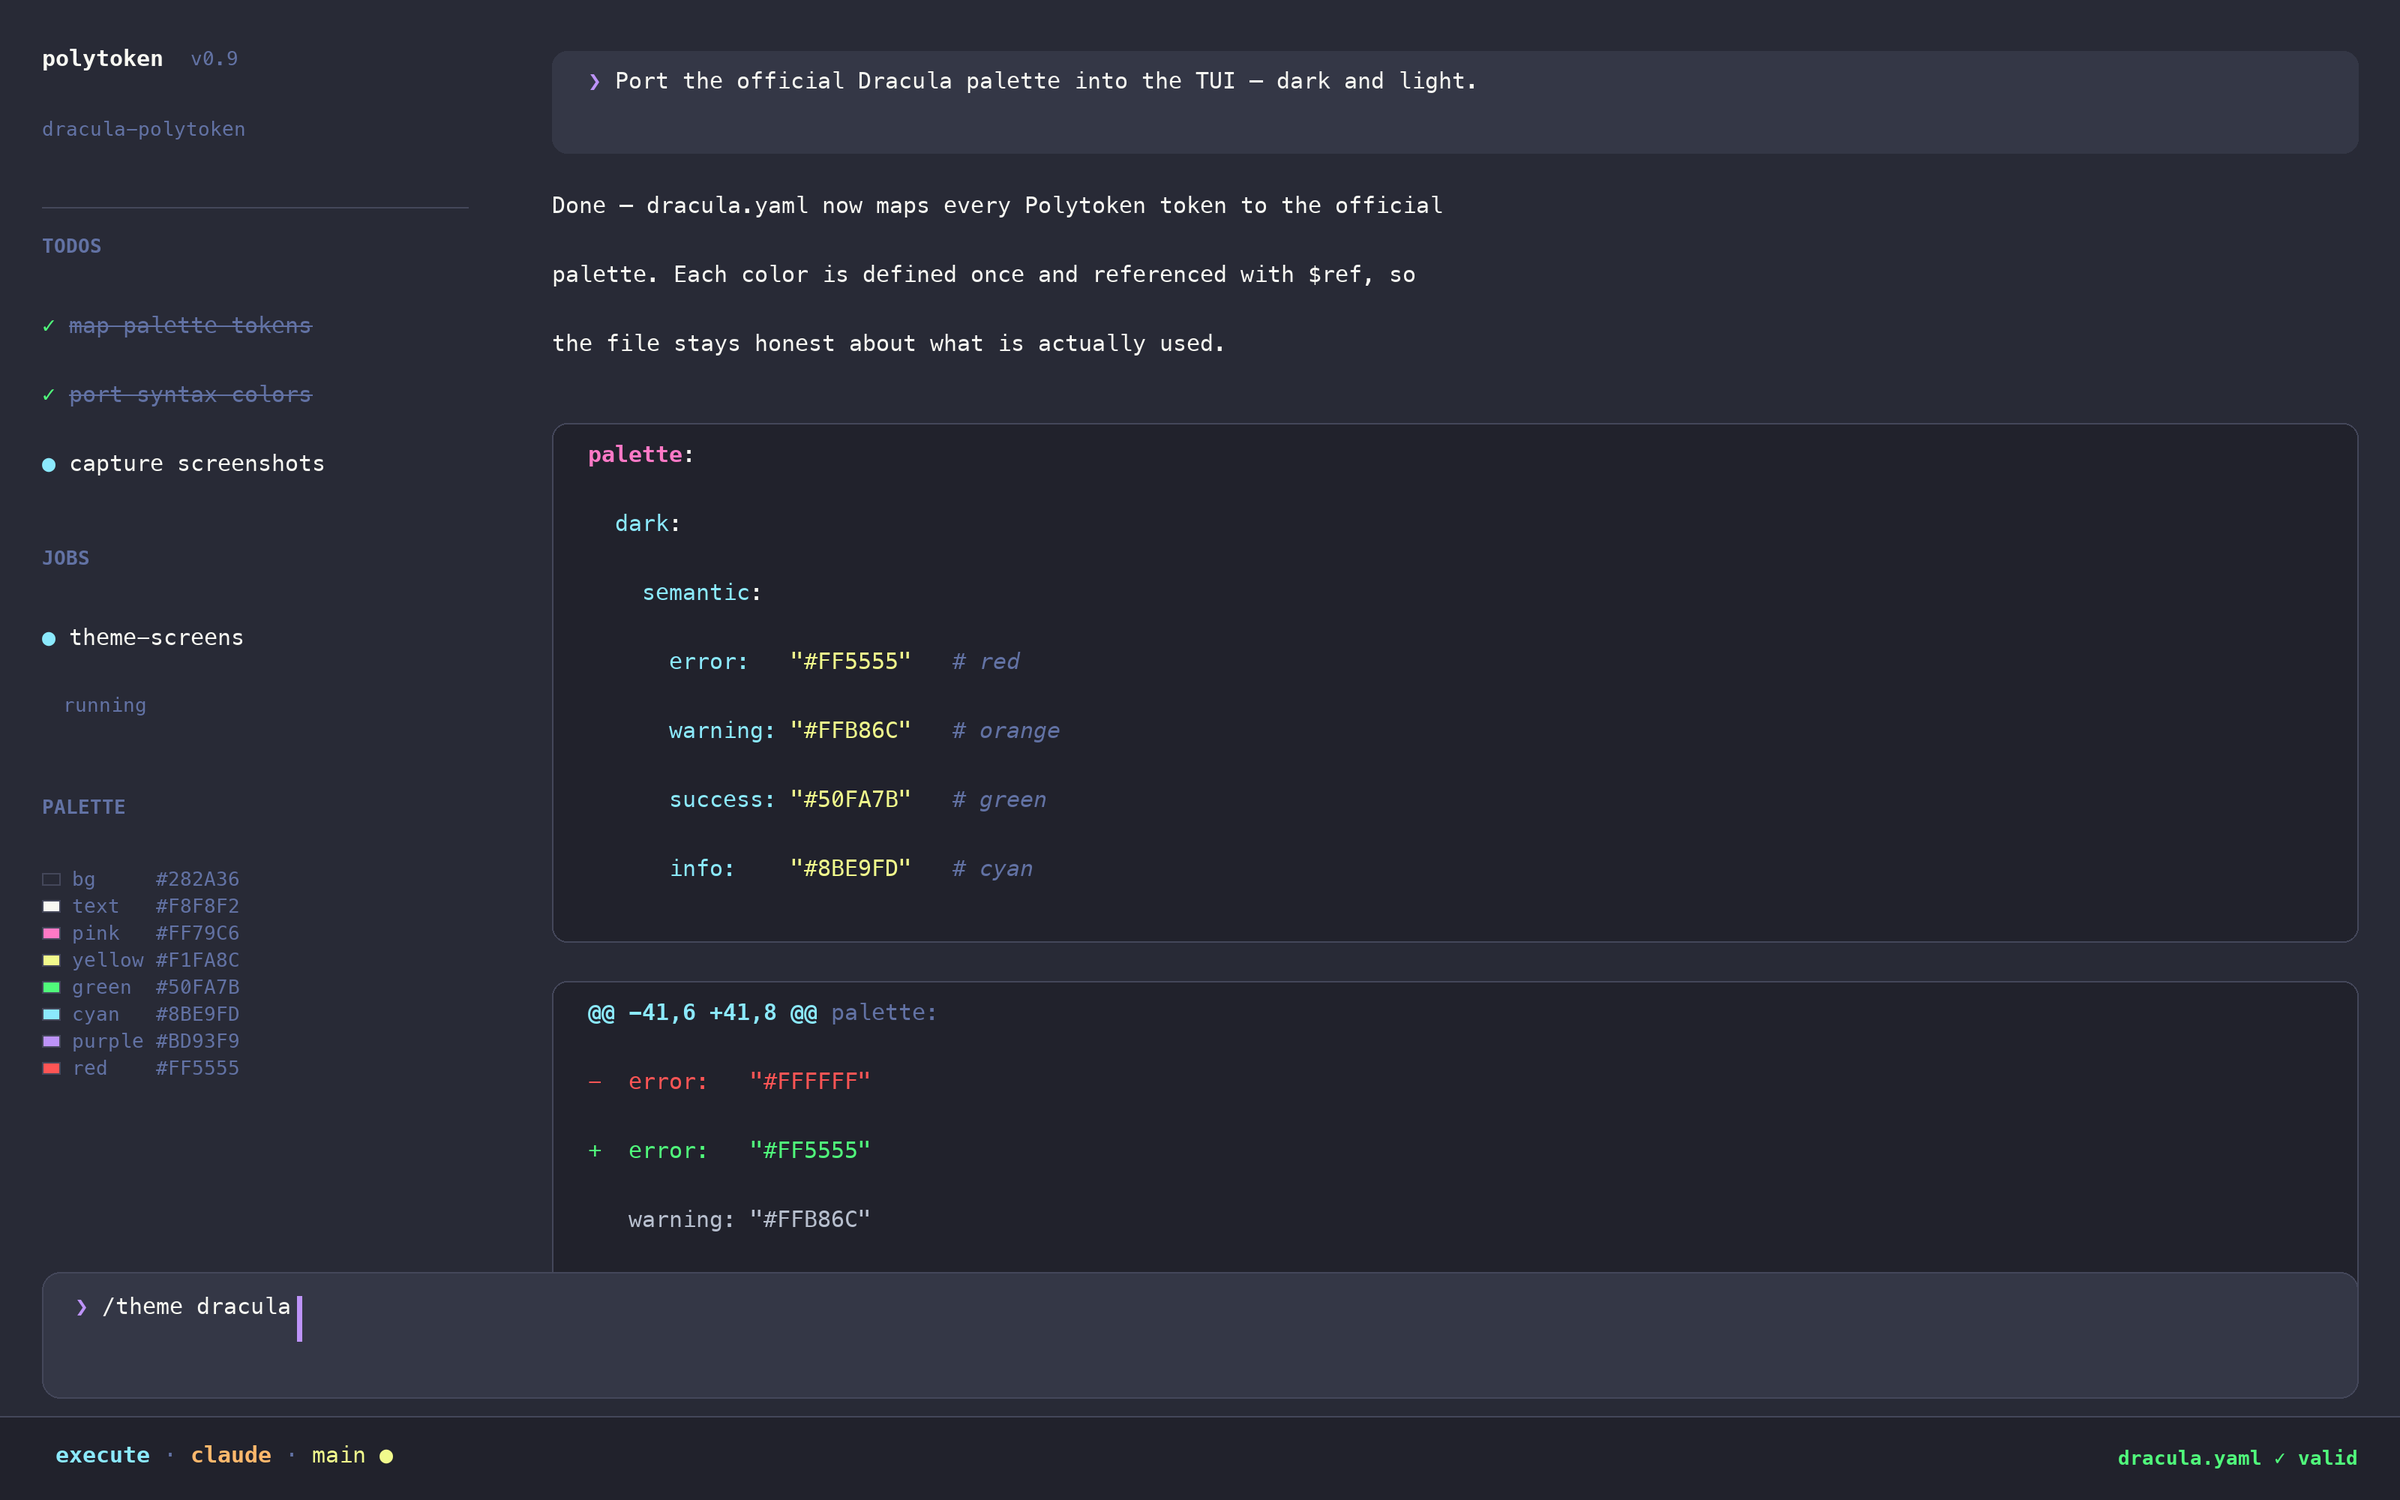
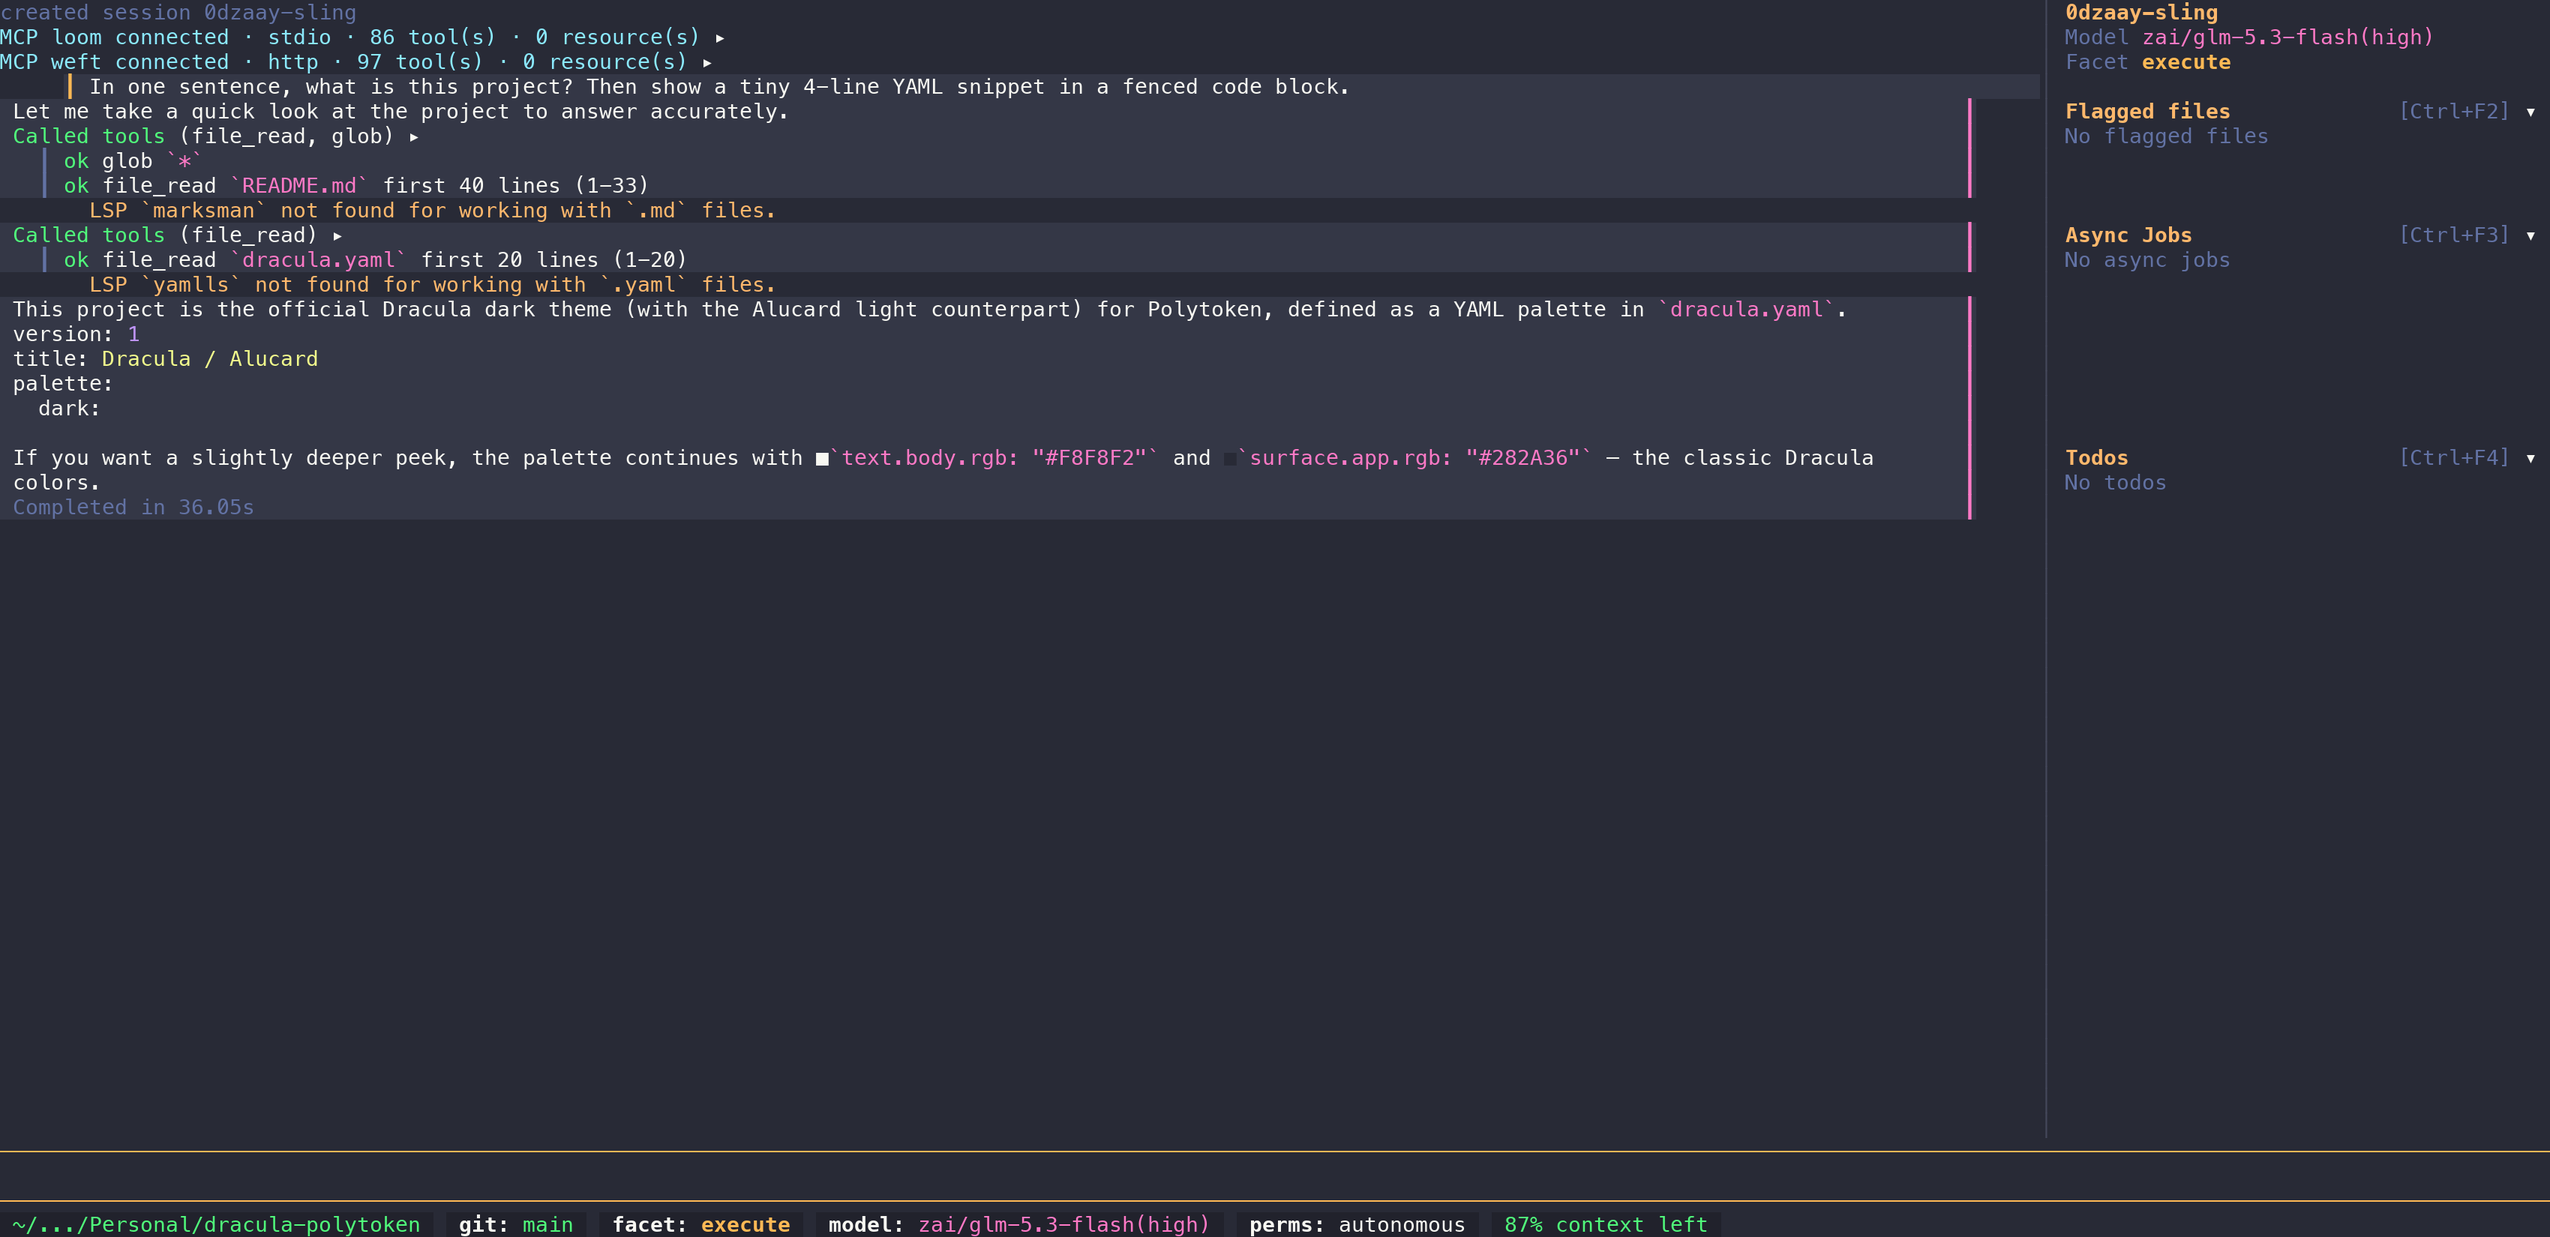
docs: replace mockup with real TUI captures; fix config format in INSTALL
- screenshot.png and screenshot/ now show the actual Polytoken TUI
  running with the theme applied (dark via /theme, light via
  tui.theme: light), captured from a live session
- INSTALL.md: Polytoken config is YAML, not TOML

diff --git a/INSTALL.md b/INSTALL.md
@@ -23,10 +23,11 @@ Download using the [GitHub `.zip` download](https://github.com/dracula/polytoken
 
    If you set a custom `XDG_CONFIG_HOME`, use `$XDG_CONFIG_HOME/polytoken/themes/` instead.
 
-2. Set the theme in your Polytoken config file:
+2. Set the theme in your Polytoken config (`~/.config/polytoken/config.yaml`):
 
-   ```toml
-   tui.theme-file = "dracula"
+   ```yaml
+   tui:
+     theme-file: dracula
    ```
 
    Or preview it for the current session by running `/theme dracula` inside Polytoken.
